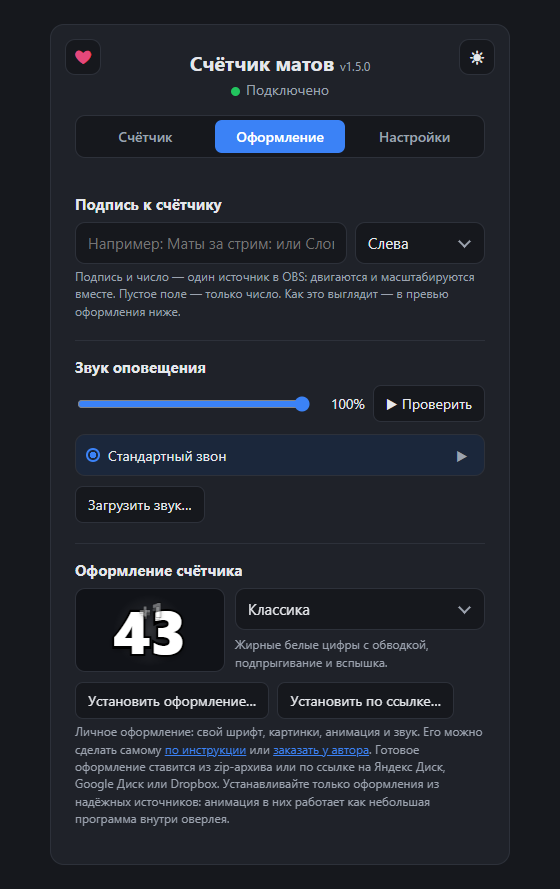
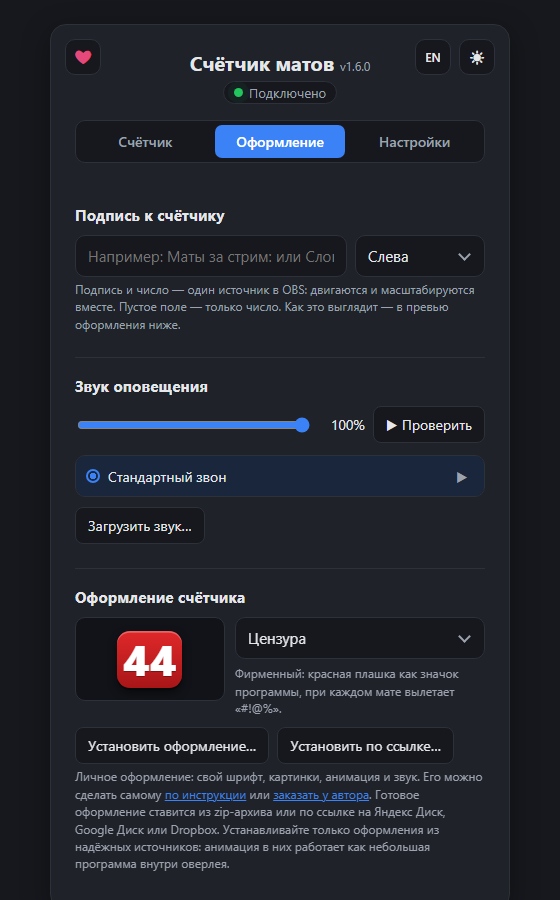
Release v1.6.0

diff --git a/app/__init__.py b/app/__init__.py
@@ -6,7 +6,7 @@
 #   ПАТЧ  (3) — только исправления: 1.2.3 → 1.2.4.
 # Поднятая цифра сбрасывает младшие в 0. Тег релиза — "v" + версия (v1.3.0),
 # заметки к нему — docs/releases/v1.3.0.md. Порядок выпуска: docs/DEVELOPMENT.md.
-__version__ = "1.5.0"
+__version__ = "1.6.0"
 
 # Куда можно поддержать автора. Пустой список — кнопки «Поддержать» нет ни в окне, ни в трее.
 # qr — картинка с QR-кодом в папке control/ (необязательно).

diff --git a/scripts/vt_check.py b/scripts/vt_check.py
@@ -2,7 +2,7 @@
 
 Запуск из antivirus-check.yml (нужна переменная окружения VT_API_KEY):
 
-    python scripts/vt_check.py dist/SwearCounter-v1.5.0-windows.zip dist/SwearCounter/SwearCounter.exe
+    python scripts/vt_check.py dist/SwearCounter-v1.6.0-windows.zip dist/SwearCounter/SwearCounter.exe
 
 Результат печатается и дописывается в GITHUB_STEP_SUMMARY, если он задан.
 Код возврата 0, даже если что-то нашли: скрипт только сообщает.

diff --git a/README.md b/README.md
@@ -34,22 +34,37 @@
 
 ## Возможности
 
-- 🎙 **Считает по голосу.** Распознаёт русскую речь и находит нужные слова в разных формах.
-- 🔒 **Голос не записывается.** Речь распознаётся прямо на компьютере, без интернета.
-  Звук и текст сказанного не сохраняются и никуда не отправляются.
-- 🎨 **6 оформлений.** Классика, неон, ретро, минимализм и другие. Меняются на лету, без перезапуска OBS.
+- 🎙 **Считает по голосу.** Распознаёт русскую и английскую речь и находит нужные слова в разных формах.
+- 🔒 **Голос не записывается.** Речь по умолчанию распознаётся прямо на компьютере, без интернета.
+  Звук и текст сказанного не сохраняются. Облачное распознавание включается только вручную.
+- 🎨 **7 оформлений.** Фирменная «Цензура», классика, неон, ретро, минимализм и другие. Меняются на лету, без перезапуска OBS.
 - ✏ **Подпись к числу.** "Маты за стрим:", "Слова-паразиты:" или любая другая, слева, справа, сверху или снизу.
 - 🔔 **Звук оповещения.** Стандартный или свой (MP3/WAV/OGG), громкость регулируется. Звук идёт в микшер OBS.
 - 💾 **Счёт не теряется.** Он сохраняется после перезапуска программы или компьютера.
 - 🖱 **Ручное управление.** Кнопки "+1" и "Сбросить", если нужно поправить счёт.
+- ⏱ **Таймер "без мата".** Сколько удалось продержаться и рекорд; кольцо вокруг счёта
+  показывает серию до рекорда. Таймер выводится в OBS отдельным источником.
+- 🎯 **Цели и пороги.** Особая анимация и звук на 10-м, 50-м, 100-м слове или отсчёт
+  "осталось N до цели" для челленджей.
+- 📊 **Статистика и история сессий.** Сколько слов за каждую сессию, самые частые слова,
+  график, выгрузка в CSV.
 - ⏸ **Пауза распознавания** в окне и в трее: на перерыв, катсцену или чужой голос.
 - ⌨ **Горячие клавиши.** "+1", пауза и сброс работают, даже когда окно свёрнуто и вы в игре.
 - 📝 **Списки слов.** Готовые "Маты (18+)" и "Слова-паразиты" переключаются в окне программы.
   Свой список можно сделать в обычном текстовом файле, правки подхватываются на ходу.
 - 🚀 **Запускается сама.** Вместе с Windows, при запуске OBS или в начале трансляции.
   Можно вместо запуска просто напомнить уведомлением.
-- 🧠 **Шесть моделей распознавания.** От экономной до самой точной: скачиваются и удаляются
-  в один клик, переключаются без перезапуска.
+- 🔢 **Несколько счётчиков сразу.** Например, маты и слова-паразиты отдельно: у каждого
+  свой список слов, свой оверлей, оформление и подпись.
+- 📡 **Связь с OBS и Streamer.bot.** Автосброс счёта в начале трансляции или записи и смена
+  сцены по порогу. Команда `!маты` в чате Twitch и другие связки через
+  [Streamer.bot](docs/STREAMERBOT.md).
+- 🧠 **Одиннадцать локальных моделей.** Семь для русской речи, от экономной до самой точной
+  и устойчивого к шуму Whisper, и четыре для английской. Скачиваются и удаляются в один клик, переключаются без перезапуска.
+- ☁ **Облачное распознавание по желанию.** Deepgram, OpenAI, Groq или ElevenLabs по вашему
+  API-ключу ([подробнее](docs/CLOUD_STT.md)). Пока ключ не введён и облачная модель не выбрана, звук не покидает компьютер.
+- 🇬🇧 **Английская речь и интерфейс.** Свои модели, готовые списки "English swear words" и
+  "English filler words". Окно, трей и уведомления переключаются кнопкой "EN" / "RU".
 - 🔄 **Обновляется сама.** Сообщит о новой версии и установит её в один клик.
 - ✨ **Личные оформления.** Свой стиль, анимация и звук. Можно сделать самому
   [по инструкции](docs/PRESETS.md) или заказать у автора прямо из программы.
@@ -58,36 +73,24 @@
 
 Программа слушает микрофон, поэтому коротко о том, что происходит с голосом:
 
-- **Голос обрабатывается только на вашем компьютере.** Модель распознавания скачивается
-  один раз и дальше работает без интернета. Звук с микрофона не уходит ни на какие
+- **По умолчанию голос обрабатывается только на вашем компьютере.** Модель распознавания
+  скачивается один раз и дальше работает без интернета. Звук с микрофона не уходит ни на какие
   серверы: ни автору, ни сторонним сервисам.
+- **Облако только по вашему выбору.** Если вы сами ввели API-ключ и выбрали облачную модель,
+  фразы отправляются в этот сервис (Deepgram, OpenAI, Groq или ElevenLabs). Автор программы их не получает.
 - **Ничего не записывается.** Программа не сохраняет звук и не ведёт расшифровку:
   распознанная фраза сразу проверяется на нужные слова и забывается. На диске остаются
   только счёт, настройки, ваши списки слов и технический журнал, в котором нет сказанного.
 - **Окно программы и оверлей доступны только с этого компьютера.** Встроенный сервер
   работает на адресе `localhost`, а сторонние сайты, открытые в браузере, не могут к нему обратиться.
-- **Интернет нужен только** для скачивания модели, проверки обновлений на GitHub и установки
-  оформления по ссылке. Ссылки на поддержку автора и сайт почты открываются, только
+- **Интернет нужен только** для скачивания модели, проверки обновлений на GitHub, установки
+  оформления по ссылке и, если вы включили, облачного распознавания. Ссылки на поддержку автора и сайт почты открываются, только
   когда вы сами их нажимаете.
 - **Это можно проверить.** Код программы открыт и лежит в этом репозитории.
 
 ## 🛠 В планах
 
-- 🌍 **Английский язык.** Интерфейс на английском и распознавание английской речи
-  со своими списками слов.
-- 🧠 **Ещё один движок распознавания.** Сейчас на выбор шесть моделей: Vosk, T-one и GigaAM,
-  от экономной до самой точной. Следующий шаг: Whisper.
-- 🔢 **Несколько счётчиков сразу.** Например, маты и слова-паразиты отдельно, каждый
-  со своим оверлеем и оформлением.
-- 📊 **Статистика и история сессий.** Сколько слов за каждую сессию, самые частые слова,
-  график, выгрузка в CSV.
-- 🎯 **Цели и пороги.** Особая анимация и звук на 10-м, 50-м, 100-м слове или отсчёт
-  "осталось N до наказания" для челленджей.
-- 📡 **Связь с OBS и стрим-сервисами.** Автосброс при старте записи или трансляции, смена сцены по порогу,
-  команда `!маты` в чате Twitch, события для Streamer.bot.
-- ⏱ **Таймер "без мата".** Сколько удалось продержаться и рекорд за сессию.
-
-Порядок не окончательный. Если хотите что-то ещё, напишите в [Issues](https://github.com/vvallikk/SwearCounter/issues).
+Всё, что было в планах, уже сделано. Если хотите что-то ещё, напишите в [Issues](https://github.com/vvallikk/SwearCounter/issues).
 
 ## Как это выглядит
 

diff --git a/docs/releases/v1.6.0.md b/docs/releases/v1.6.0.md
@@ -1,0 +1,27 @@
+## Что нового
+
+- Таймер "без мата": сколько удалось продержаться и рекорд. Кольцо вокруг счёта заполняется до рекорда, а таймер можно вывести в OBS отдельным источником.
+- Цели и пороги: особая анимация и звук на выбранных словах, отсчёт "осталось N до цели" для челленджей.
+- Статистика: история сессий, самые частые слова, график и выгрузка в CSV.
+- Связь с OBS и Streamer.bot: автосброс счёта при старте трансляции или записи, смена сцены по порогу, команда `!маты` в чате Twitch.
+- Несколько счётчиков сразу: у каждого свой список слов, оверлей, оформление и подпись.
+- Английская речь и интерфейс: четыре английские модели, готовые списки слов и переключатель "EN" / "RU".
+- Whisper: модели для русской и английской речи, устойчивые к шуму.
+- Облачное распознавание по желанию: Deepgram, OpenAI, Groq и ElevenLabs по вашему API-ключу. Пока ключ не введён, звук не покидает компьютер.
+- Новое оформление "Цензура": красная плашка как значок программы, при каждом слове вылетает "#!@%". Оно стоит по умолчанию у тех, кто ничего не выбирал; выбранное ранее оформление и личные оформления не меняются.
+- Окно программы стало плавнее: лёгкий индикатор микрофона, сворачиваемые разделы настроек, ссылки для OBS одной карточкой, счёт показывается в выбранном оформлении.
+- Меньше ложных срабатываний антивирусов на сборку.
+
+## What's new
+
+- "Clean for" timer: how long you held out and your record. A ring around the count fills up to the record, and the timer can go to OBS as a separate source.
+- Goals and milestones: a special animation and sound on chosen words, a "N to go" countdown for challenges.
+- Statistics: session history, the most frequent words, a chart and CSV export.
+- OBS and Streamer.bot integration: the count resets when a stream or recording starts, the scene switches at a threshold, a `!маты` command in Twitch chat.
+- Several counters at once: each has its own word list, overlay, style and label.
+- English speech and interface: four English models, ready-made word lists and an "EN" / "RU" switch.
+- Whisper: noise-tolerant models for Russian and English speech.
+- Optional cloud recognition: Deepgram, OpenAI, Groq and ElevenLabs with your own API key. Until a key is entered, audio never leaves the computer.
+- New "Censored" style: a red plaque like the app icon, a comic "#!@%" pops out on every word. It is the default for those who never picked one; a style chosen earlier and custom styles stay as they were.
+- The program window is smoother: a lightweight microphone meter, collapsible settings sections, OBS links in one card, the count shown in the selected style.
+- Fewer antivirus false positives on the build.
